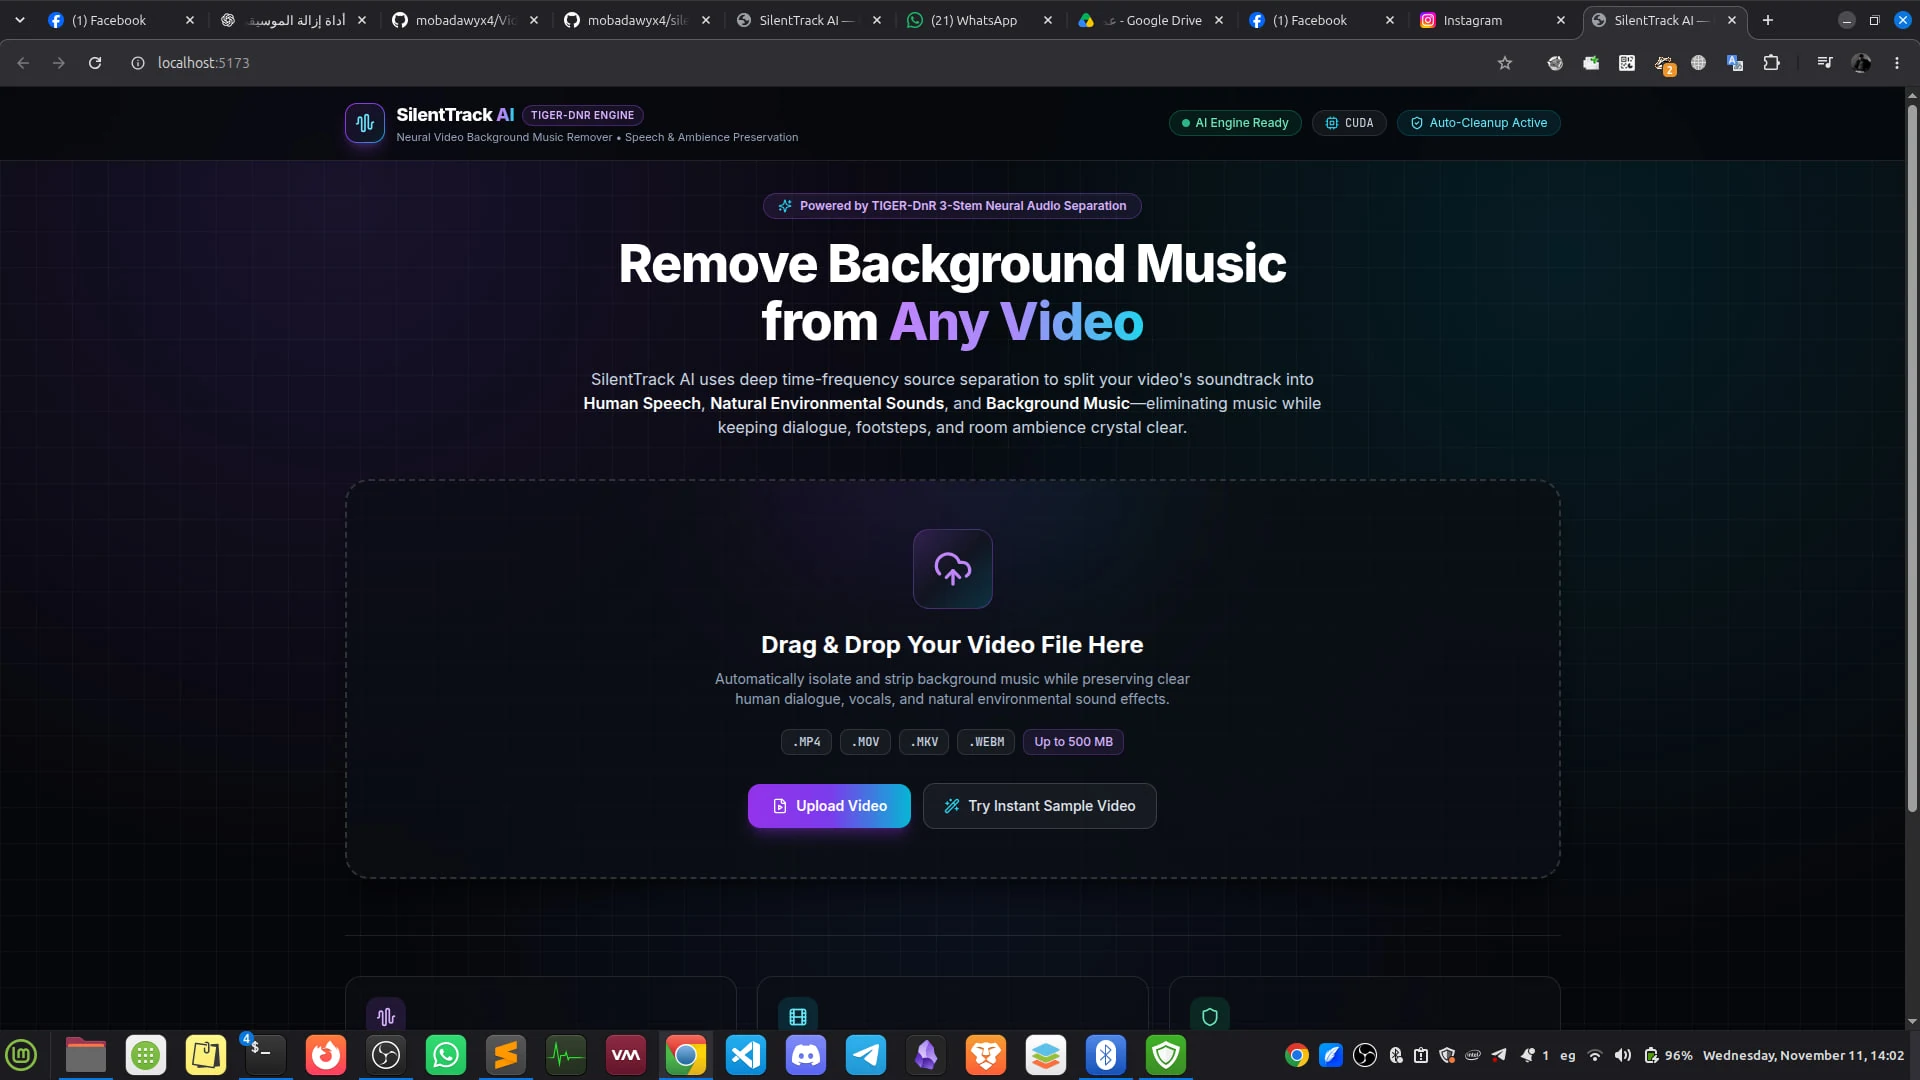
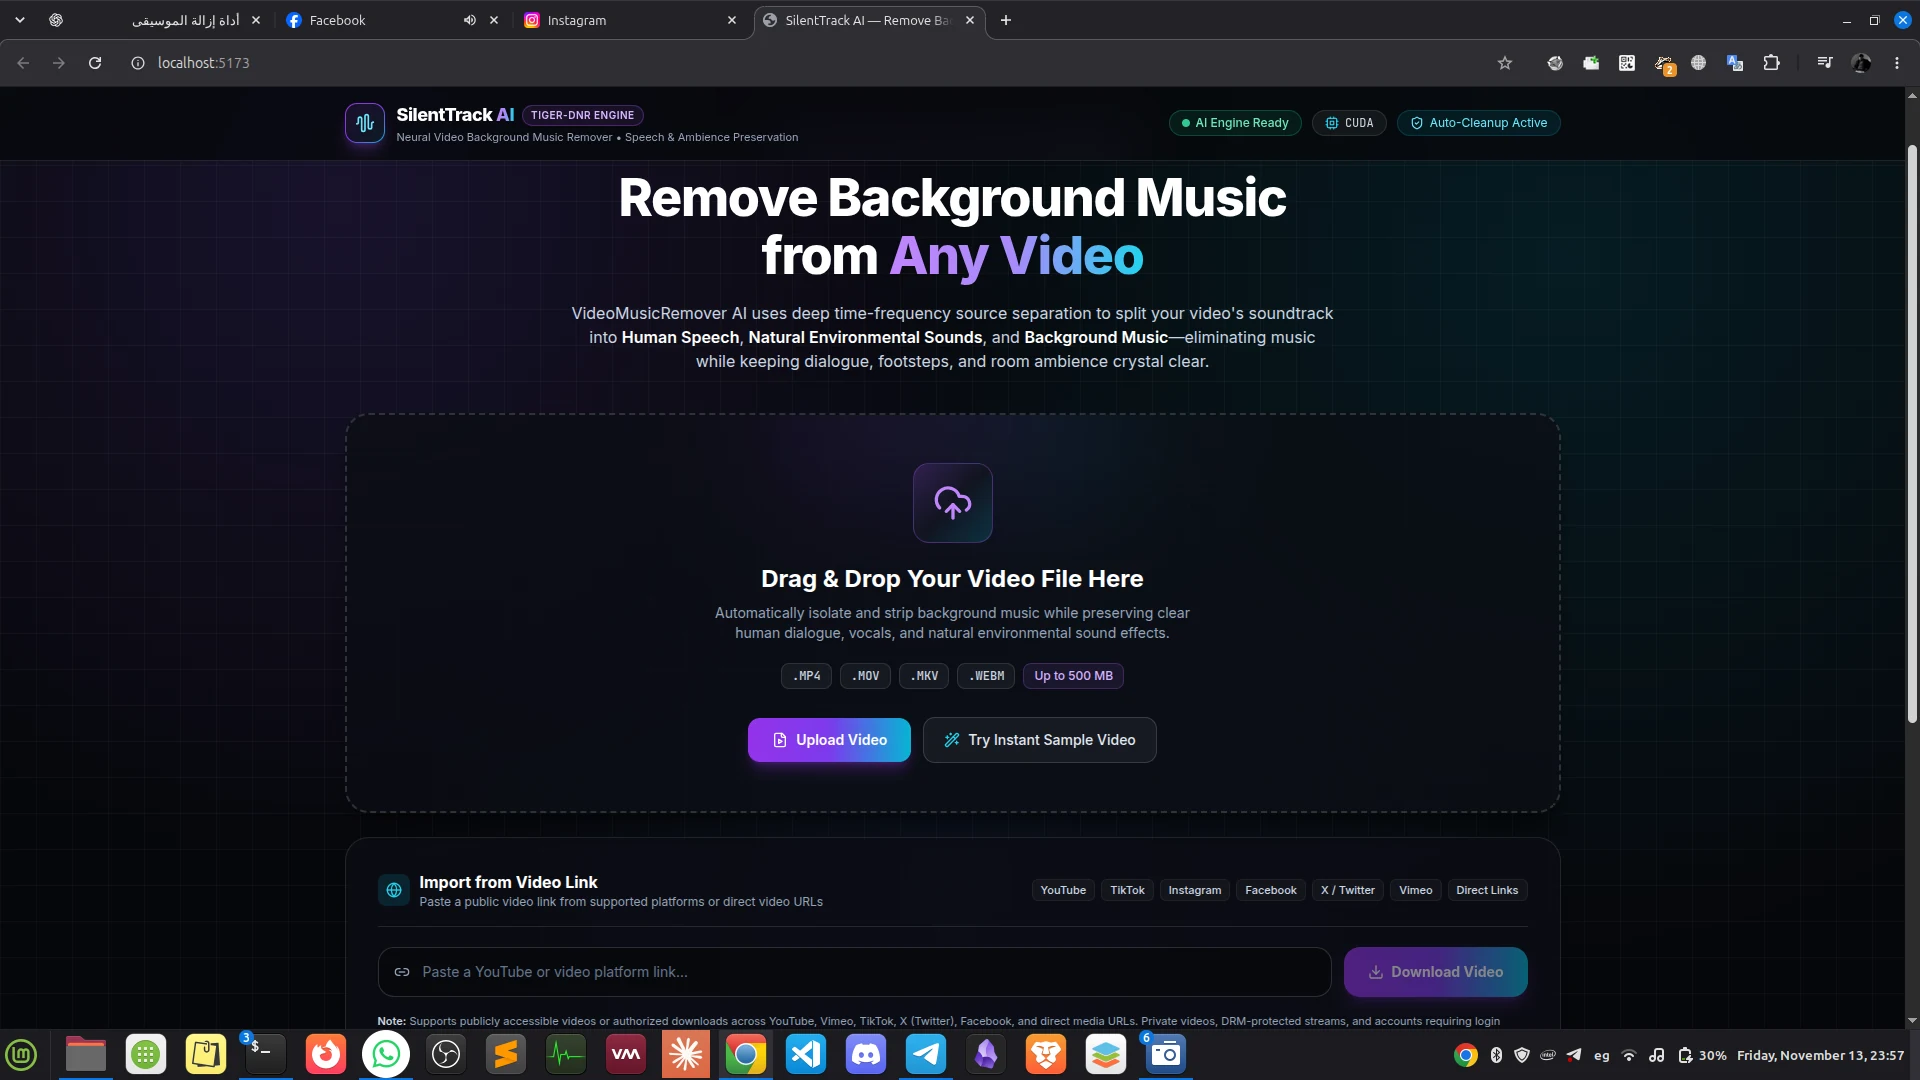
Update branding and simplify installation

diff --git a/frontend/index.html b/frontend/index.html
@@ -3,7 +3,7 @@
   <head>
     <meta charset="UTF-8" />
     <meta name="viewport" content="width=device-width, initial-scale=1.0" />
-    <title>SilentTrack AI — Remove Background Music from Any Video</title>
+    <title>VideoMusicRemover AI — Remove Background Music from Any Video</title>
     <meta
       name="description"
       content="AI-powered video background music remover that preserves human speech, dialogue, and natural environmental audio using TIGER-DnR neural source separation."

diff --git a/frontend/src/components/Navbar.jsx b/frontend/src/components/Navbar.jsx
@@ -18,7 +18,7 @@ export default function Navbar({ health }) {
           <div>
             <div className="flex items-center gap-2">
               <span className="text-lg font-extrabold tracking-tight text-white">
-                SilentTrack{" "}
+                VideoMusicRemover{" "}
                 <span className="bg-gradient-to-r from-purple-400 via-violet-400 to-cyan-400 bg-clip-text text-transparent">
                   AI
                 </span>

diff --git a/backend/tests/test_backend.py b/backend/tests/test_backend.py
@@ -1,4 +1,4 @@
-"""Automated backend test suite for SilentTrack AI."""
+"""Automated backend test suite for VideoMusicRemover AI."""
 
 from __future__ import annotations
 
@@ -104,7 +104,7 @@ def test_cross_platform_scripts_and_model_cache() -> None:
             "[3/5] Installing backend dependencies...",
             "[4/5] Installing frontend dependencies...",
             "[5/5] Validating installation...",
-            "SilentTrack AI is ready!",
+            "VideoMusicRemover AI is ready!",
             "http://localhost:5173",
         ):
             assert step in content, f"Missing '{step}' in {installer}"

diff --git a/backend/app/api/routes.py b/backend/app/api/routes.py
@@ -1,4 +1,4 @@
-"""API endpoints for SilentTrack AI."""
+"""API endpoints for VideoMusicRemover AI."""
 
 from __future__ import annotations
 
@@ -27,7 +27,7 @@ from app.services.media_service import MediaProcessingError, check_ffmpeg_instal
 from app.services.separation import separator_service
 from app.services.url_service import import_video_from_url
 
-router = APIRouter(prefix="/api", tags=["SilentTrack AI"])
+router = APIRouter(prefix="/api", tags=["VideoMusicRemover AI"])
 
 CHUNK_SIZE = 1024 * 1024  # 1 MB streaming chunks
 

diff --git a/backend/app/core/config.py b/backend/app/core/config.py
@@ -1,4 +1,4 @@
-"""Application configuration for SilentTrack AI backend."""
+"""Application configuration for VideoMusicRemover AI backend."""
 
 from __future__ import annotations
 
@@ -42,7 +42,7 @@ class Settings(BaseSettings):
         extra="ignore",
     )
 
-    APP_NAME: str = "SilentTrack AI"
+    APP_NAME: str = "VideoMusicRemover AI"
     APP_VERSION: str = "1.0.0"
     DEBUG: bool = False
 

diff --git a/backend/app/services/media_service.py b/backend/app/services/media_service.py
@@ -1,4 +1,4 @@
-"""FFmpeg and FFprobe video/audio processing utilities for SilentTrack AI."""
+"""FFmpeg and FFprobe video/audio processing utilities for VideoMusicRemover AI."""
 
 from __future__ import annotations
 

diff --git a/backend/app/main.py b/backend/app/main.py
@@ -1,4 +1,4 @@
-"""Main FastAPI application entry point for SilentTrack AI."""
+"""Main FastAPI application entry point for VideoMusicRemover AI."""
 
 from __future__ import annotations
 

diff --git a/backend/app/core/schemas.py b/backend/app/core/schemas.py
@@ -1,4 +1,4 @@
-"""Pydantic data models for SilentTrack AI API."""
+"""Pydantic data models for VideoMusicRemover AI API."""
 
 from __future__ import annotations
 
